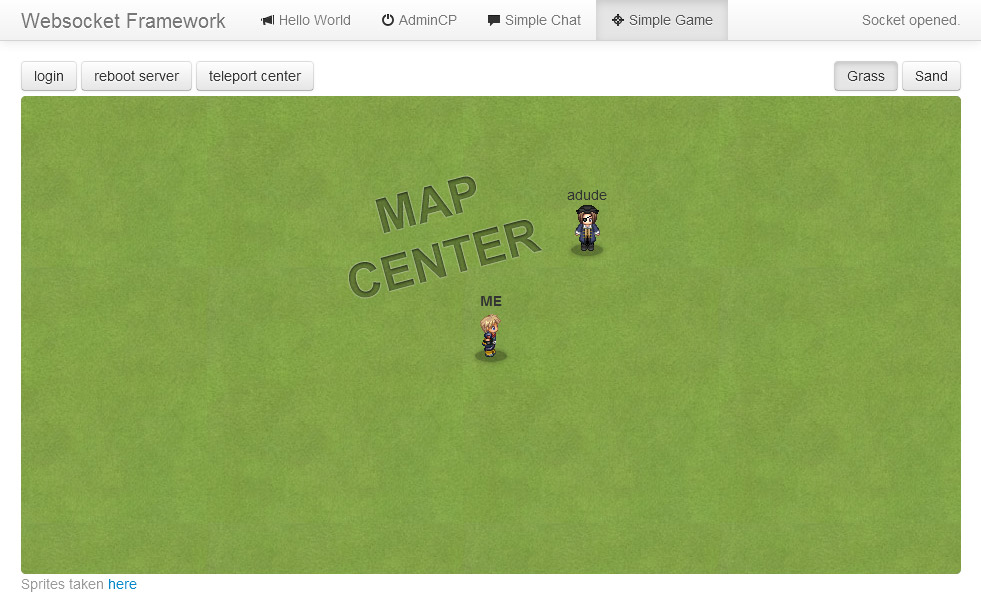
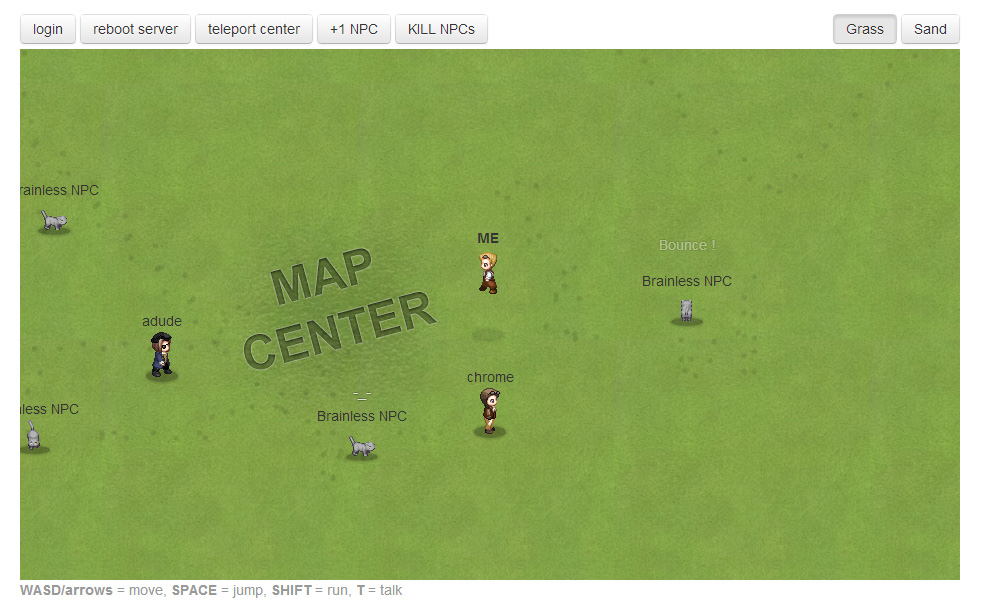
Add some methods for NPC clients support and demonstrate it in the game demo

diff --git a/public/game/index.html b/public/game/index.html
@@ -45,6 +45,9 @@
         <a href="javascript:void(0);" class="btn" onclick="client.socket.sys_send('login','root');">login</a>
         <a href="javascript:void(0);" class="btn" onclick="client.socket.sys_send('reboot');">reboot server</a>
         <a href="javascript:void(0);" class="btn" onclick="client.socket.send('teleport', {x: jQuery(client.map).width() * 0.5, y: jQuery(client.map).height() * 0.5});">teleport center</a>
+        <a href="javascript:void(0);" class="btn" onclick="client.socket.send('create_npc');">+1 NPC</a>
+        <a href="javascript:void(0);" class="btn" onclick="client.socket.send('kill_npcs');">KILL NPCs</a>
+        <a href="javascript:void(0);" class="btn" onclick="client.socket.send('attract_npcs', confirm('Do you want to attract all NPCs ?'));">Attract NPCs</a>
 
         <div style="float:right;">
             <a href="javascript:void(0);" class="btn active" id="tile-grass" onclick="jQuery('#map').css('background-image', 'url(images/tile-grass.jpg)'); this.className='btn active'; jQuery('#tile-sand').removeClass('active');">Grass</a>

diff --git a/public/game/js/Game.js b/public/game/js/Game.js
@@ -77,9 +77,16 @@ function Game(address, port)
 						this.loop();
 					}
 
+					// add all already present players
 					for(var id in data.content.initial_sync.players_list)
 					{
 						this.insert_player(id, data.content.initial_sync.players_list[id]);
+					}
+
+					// add all already present NPCs
+					for(var id in data.content.initial_sync.npcs_list)
+					{
+						this.insert_player(id, data.content.initial_sync.npcs_list[id]);
 					}
 				}
 				else

diff --git a/my_servers/game.php b/my_servers/game.php
@@ -13,13 +13,18 @@ class Game_SocketServer extends SocketServer
     protected function init()
     {
         $this->set_server_name("Simple Game Server");
-        $this->set_tick_interval(10);
         $this->recognized_keys = array("w", "a", "s", "d", "space", "enter", "shift", "e", "q", "t");
 
         // create dirs (if they don't exists) to save game players data
         $this->fm = new FilesManager();
         $this->fm->make_dir("game/");
         $this->fm->make_dir("game/players/");
+
+        // create some NPCs at the begining
+        for($i = 1; $i <= 3; $i++)
+        {
+            $this->create_npc();
+        }
     }
 
 
@@ -27,9 +32,11 @@ class Game_SocketServer extends SocketServer
     //===========================================================================
     protected function on_server_tick($counter)
     {
-        //$this->update_npcs();
-        
-        if($counter%30 == 0)
+        // update NPCs behaviors (each seconds)
+        $this->update_npcs();
+
+        // players state autosaving loop (each 5 minutes)
+        if($counter%300 == 0)
         {
             output("AUTO-SAVING players state...");
             $clients = $this->get_clients();
@@ -44,6 +51,12 @@ class Game_SocketServer extends SocketServer
 
     protected function on_client_disconnect($client)
     {
+        // if the client disconnecting was the NPC attraction
+        if($client == $this->npcs_candy)
+        {
+            $this->npcs_candy = false;
+        }
+
         $this->update_client($client);
         $this->save_client_state($client);
         $this->send_to_others($client, "player_quit", $client->id);
@@ -75,7 +88,7 @@ class Game_SocketServer extends SocketServer
             }
             else
             {
-                $initial_state = $this->create_initial_player_state();
+                $initial_state = $this->create_initial_character_state("hero" . rand(1, 13));
             }
             
             $client->set($initial_state);
@@ -138,6 +151,30 @@ class Game_SocketServer extends SocketServer
         $this->send_to_others($client, "player_action", array("id" => $client->id, "action" => "talk", "msg" => $data));
     }
 
+    protected function handle_create_npc($client, $data)
+    {
+        $npc = $this->create_npc();
+        $this->update_client($client);
+        $npc->set($client->get(array("x", "y")));
+        $this->send_to_others($npc, "new_player", array("id" => $npc->id, "props" => $npc->get(array("username", "skin", "x", "y", "speed", "direction"))));
+    }
+
+    protected function handle_kill_npcs($client, $data)
+    {
+        $npcs = $this->get_npcs();
+        foreach($npcs as $npc)
+        {
+            $this->disconnect($npc);
+        }
+    }
+
+    protected function handle_attract_npcs($client, $data)
+    {
+        $this->npcs_candy = $data ? $client : false;
+        $this->update_npcs(true);
+    }
+
+
     // OTHER METHODS
     //===========================================================================
 
@@ -179,7 +216,8 @@ class Game_SocketServer extends SocketServer
     {
         $username = $client->get("username");
 
-        if($username)
+        // save state of human clients only (no NPCs)
+        if($username && !$client->is_npc())
         {
             output("Saving " . $client->get("username") . " state " . ($this->fm->save_file("game/players/" . $username . ".json", json_encode($client->get())) ? "sucessful" : "failed"));
         }
@@ -193,7 +231,7 @@ class Game_SocketServer extends SocketServer
     }
 
     // returns a initial state for a new players
-    protected function create_initial_player_state()
+    protected function create_initial_character_state($skin = "hero1")
     {
         $keystates = array();
 
@@ -204,7 +242,7 @@ class Game_SocketServer extends SocketServer
 
         return 
         array(
-            "skin"          => "hero" . rand(1, 13),
+            "skin"          => $skin,
             "x"             => 1000,
             "y"             => 1000,
             "speed"         => 200,
@@ -213,6 +251,81 @@ class Game_SocketServer extends SocketServer
             //"inventory"     => array("shortsword"),
             "last_update"   => microtime(true)
         );
+    }
+
+    // creates an NPC
+    protected function create_npc()
+    {
+        $initial_npc_state = $this->create_initial_character_state("npc1");
+        $initial_npc_state["speed"] = rand(15, 50);
+
+        $npc = $this->create_client();
+        $npc->set($initial_npc_state);
+        $npc->set(array("username" => "Brainless NPC", "x" => 1000 + rand(-100, 100), "y" => 1000 + rand(-100, 100)));
+
+        return $npc;
+    }
+
+    // update NPCs behaviors
+    protected function update_npcs($all = false)
+    {
+        $npcs = $this->get_npcs();
+        foreach($npcs as $npc)
+        {
+            $this->update_client($npc);
+            
+            // follow the player "candy"
+            if(isset($this->npcs_candy) && $this->npcs_candy)
+            {
+                $props = $npc->get(array("x", "y"));
+                $candy = $this->npcs_candy->get(array("x", "y", "username"));
+
+                $directionX = ($props["x"] > $candy["x"] ? -1 : 1);
+                $directionY = ($props["y"] > $candy["y"] ? -1 : 1);
+                $npc->set(array("direction" => array($directionX, $directionY), "speed" => rand(100, 180)));
+
+                $this->send_to_others($npc, "player_update", array("id" => $npc->id, "props" => $npc->get(array("x", "y", "speed", "direction"))));
+                
+                // they may scream
+                if(rand(0,4) == 1)
+                {
+                    $msgs = array("Come here ".$candy["username"]." !!", "I'll get ya ".$candy["username"]." !!", "Get himm !!!");
+                    $this->send_to_others($npc, "player_action", array("id" => $npc->id, "action" => "talk", "msg" => $msgs[rand(0, count($msgs) -1)]));
+                }
+
+                // and they may jump
+                if(rand(0,2) == 1)
+                {
+                    $this->send_to_others($npc, "player_action", array("id" => $npc->id, "action" => "jump"));
+                }
+            }
+
+            // ELSE there is 1 chance out of 3 of changing direction randomly
+            else if(rand(0,3) == 1 || $all)
+            {
+                // random direction OR forced direction if NPC go too far from map center
+                $props = $npc->get(array("x", "y"));
+                $directionX = ($props["x"] >= 1500 ? -1 : ($props["x"] <= 500 ? 1 : rand(-1, 1) ) );
+                $directionY = ($props["y"] >= 1500 ? -1 : ($props["y"] <= 500 ? 1 : rand(-1, 1) ) );
+                $npc->set(array("direction" => array($directionX, $directionY), "speed" => rand(15, 75)));
+
+                $this->send_to_others($npc, "player_update", array("id" => $npc->id, "props" => $npc->get(array("x", "y", "speed", "direction"))));
+                
+                // 1 chance out of five that it will talk
+                if(rand(0,5) == 1)
+                {
+                    $msgs = array("Miaow", "Where is that damn mouse...", "I love being dumb.", "=^.^=", "I'm a cat", "-_-", "Pet me, please", "Websockets are awesome");
+                    $this->send_to_others($npc, "player_action", array("id" => $npc->id, "action" => "talk", "msg" => $msgs[rand(0, count($msgs) -1)]));
+                }
+
+                // else... 1 chance out of five that it will jump (and talk)
+                else if(rand(0,5) == 1)
+                {
+                    $this->send_to_others($npc, "player_action", array("id" => $npc->id, "action" => "jump"));
+                    $this->send_to_others($npc, "player_action", array("id" => $npc->id, "action" => "talk", "msg" => "Bounce !"));
+                }
+            }
+        }
     }
 }
 

diff --git a/core/classes/SocketServer.php b/core/classes/SocketServer.php
@@ -179,6 +179,13 @@ class SocketServer
 			array_push($this->cmds_requiring_admin_privileges, $cmd);
 		}
 	}
+
+	public function create_client($socket = NULL)
+	{
+		$client = new SocketClient($socket);
+		$this->add_client($client);
+		return $client;
+	}
 	
 	// PROTECTED
 	//==========================================================
@@ -249,6 +256,23 @@ class SocketServer
 		}
 		return $b;
 	}
+
+    // return an array of all NPCs (clients without socket)
+    protected function get_npcs()
+    {
+        $clients = $this->get_clients();
+        $npcs = array();
+
+        foreach($clients as $client)
+        {
+            if($client->is_npc())
+            {
+                array_push($npcs, $client);
+            }
+        }
+
+        return $npcs;
+    }
 	
 	protected function send($client, $action = "", $content = NULL)
 	{
@@ -305,9 +329,12 @@ class SocketServer
 	protected function disconnect($client)
 	{
 		$this->exec_method("on_client_disconnect", array($client));
-		output("disconnected client #" . $client->id);
-		@socket_shutdown($client->socket, 2);
-		@socket_close($client->socket);
+		if(!$client->is_npc())
+		{
+			output("disconnected client #" . $client->id);
+			@socket_shutdown($client->socket, 2);
+			@socket_close($client->socket);
+		}
 		$this->remove_client($client);
 	}
 	
@@ -315,10 +342,13 @@ class SocketServer
 	//==========================================================
 	private function write($socket, $data)
 	{
-		$data = $this->encode($data);
-		if(!@socket_write($socket, $data, strlen($data)))
+		if(!is_null($socket))
 		{
-			$this->disconnect($this->get_client_by_socket($socket));
+			$data = $this->encode($data);
+			if(!@socket_write($socket, $data, strlen($data)))
+			{
+				$this->disconnect($this->get_client_by_socket($socket));
+			}
 		}
 	}
 
@@ -811,8 +841,7 @@ class SocketServer
 	{
 		if($this->get_clients_count() < $this->max_clients || $this->max_clients === 0)
 		{
-			$client = new SocketClient($socket);
-			$this->add_client($client);
+			$client = $this->create_client($socket);
 			$this->exec_method("on_client_connect", array($client));
 			output("A client is connecting...");
 			return $client;

diff --git a/core/classes/SocketClient.php b/core/classes/SocketClient.php
@@ -17,6 +17,10 @@ class SocketClient
 		{
 			$this->socket = $socket;
 		}
+		else
+		{
+			$this->id = uniqid();
+		}
 	}
 	
 	public function set($prop = "", $value = "")
@@ -65,6 +69,11 @@ class SocketClient
 	public function is_handshaked()
 	{
 		return $this->is_handshaked;
+	}
+
+	public function is_npc()
+	{
+		return is_null($this->socket) ? true : false;
 	}
 
 	public function handshake()
